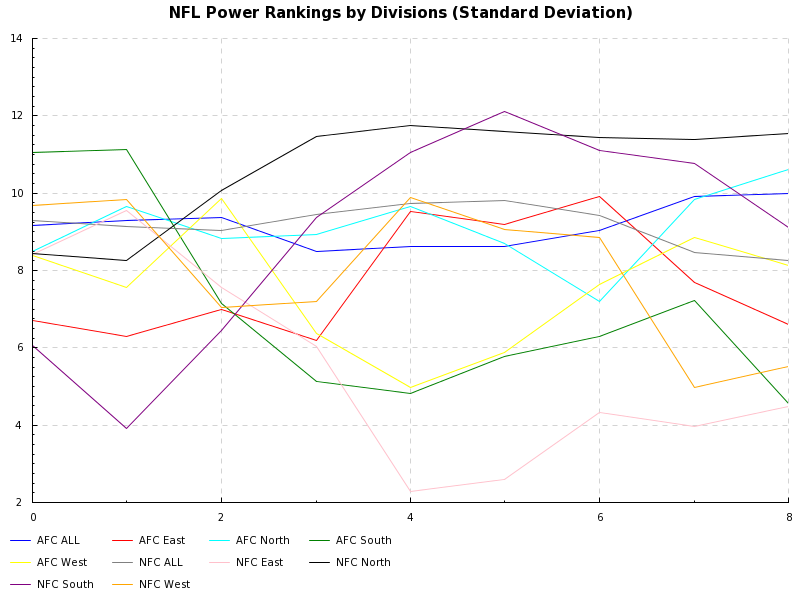
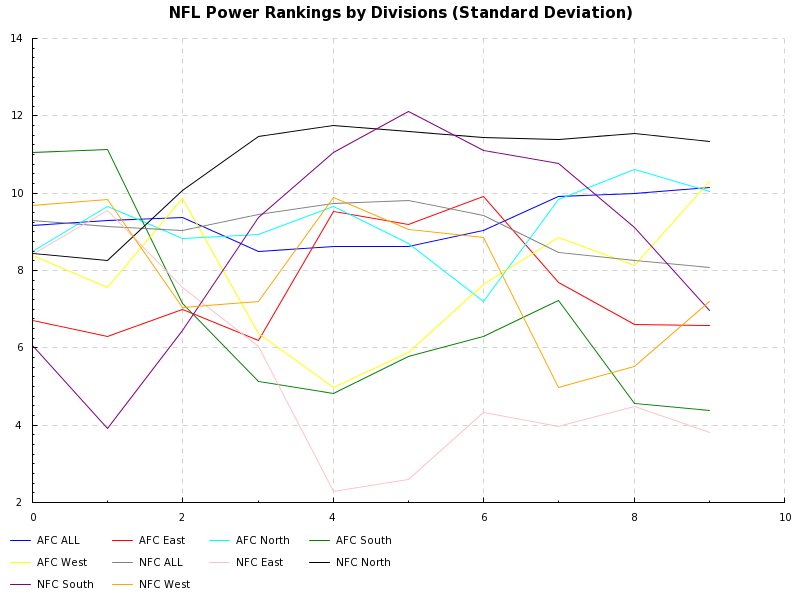
week9

diff --git a/README.md b/README.md
@@ -1,5 +1,22 @@
 ![average](https://github.com/mfine/nfl-divisions-power-rankings/blob/master/RESULTS-average.png)
 ![std dev](https://github.com/mfine/nfl-divisions-power-rankings/blob/master/RESULTS-std-dev.png)
+### Week-9
+
+```
+Division         Mean    Std Dev
+--------         ----    -------
+AFC East        11.50       6.58
+NFC South       12.25       6.98
+NFC West        14.75       7.19
+NFC ALL         15.38       8.07
+AFC North       15.75      10.03
+AFC West        15.75      10.30
+NFC East        17.00       3.81
+NFC North       17.50      11.32
+AFC ALL         17.62      10.14
+AFC South       27.50       4.39
+```
+
 ### Week-8
 
 ```
